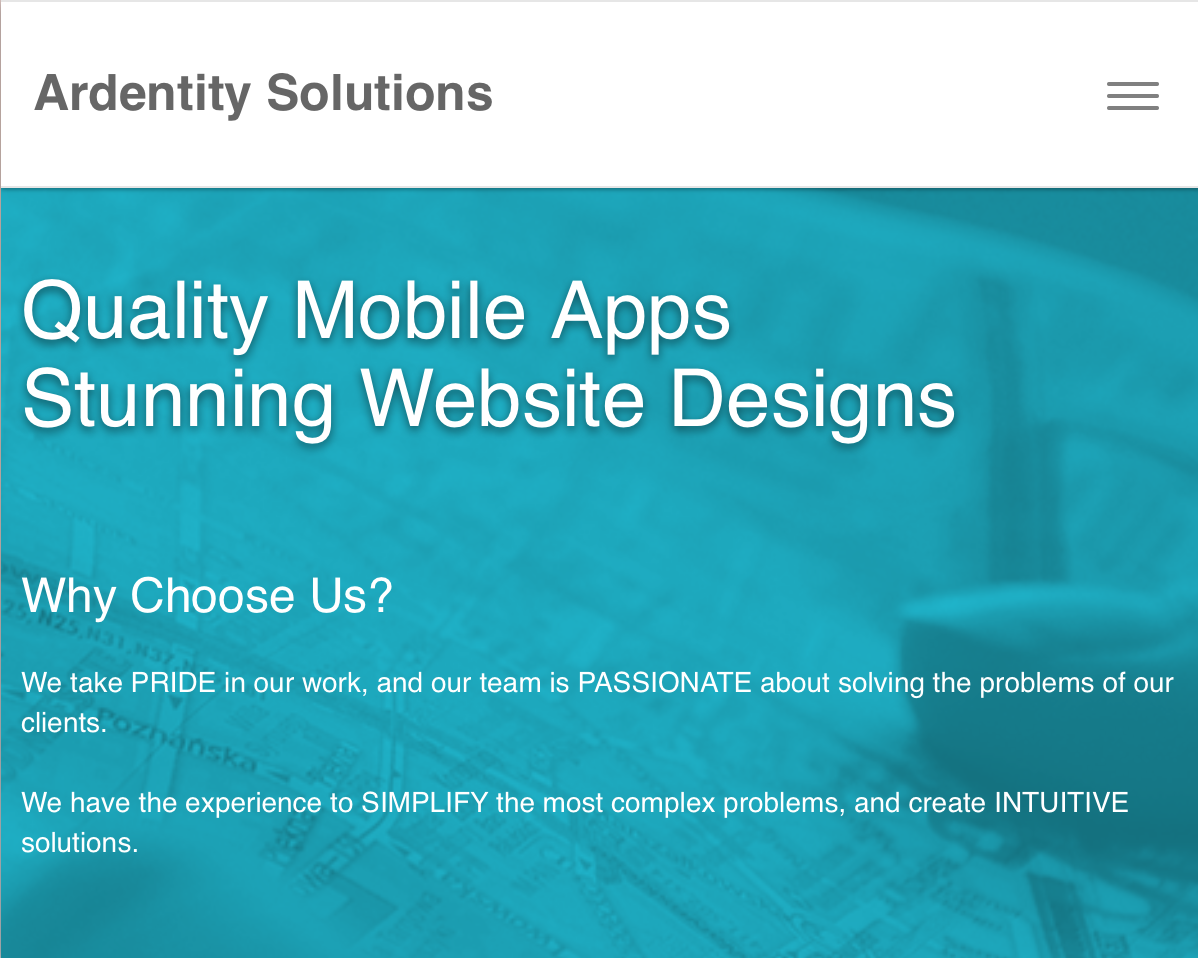
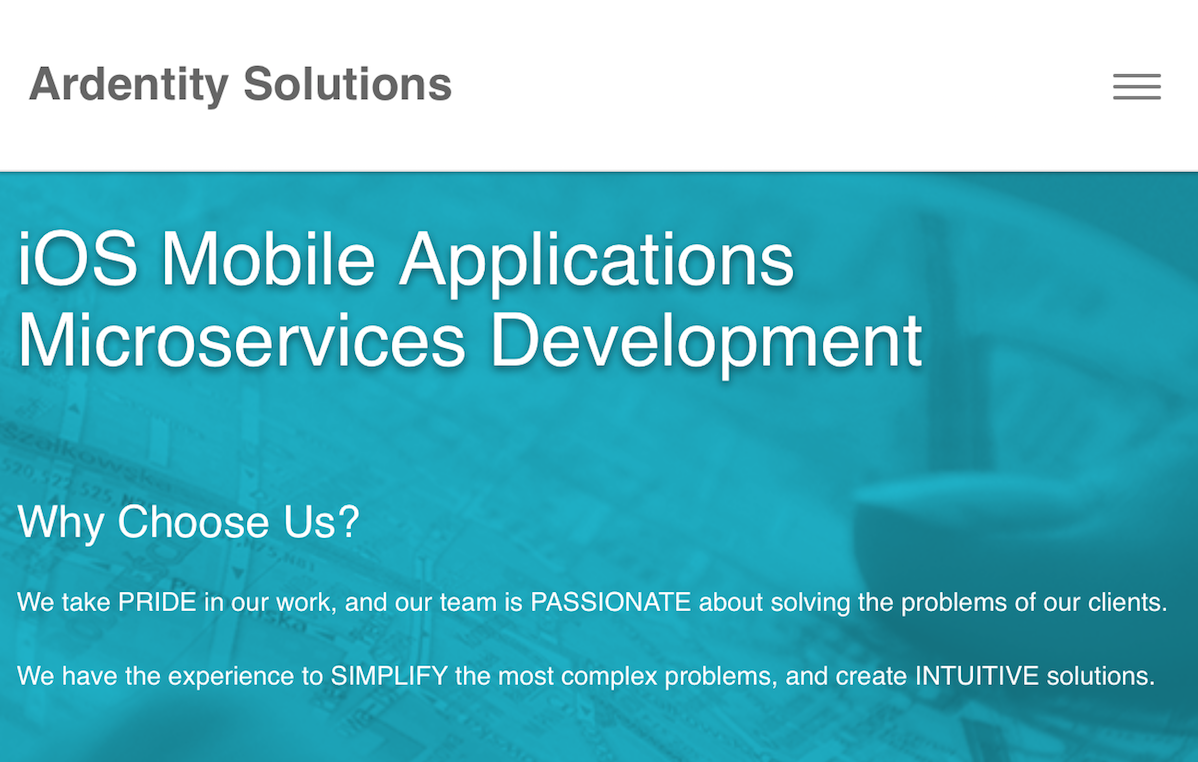
Updated site and social media image

diff --git a/index.html b/index.html
@@ -1,1 +1,1 @@
-<!doctype html><html><head> <meta charset="utf-8"> <meta name="keywords" content="Ardentity, Solution, custom mobile app, website design, microservice, Mobile App, Development, Social Media, Marketing, ios, iPhone, Android"> <meta name="description" content="Help businesses gain a competitive advantage and better serve their customers by using Technology to design, develop and implement creative solutions."> <meta name="viewport" content="width=device-width, initial-scale=1, user-scalable=0"> <link rel="shortcut icon" type="image/png" href="favicon.ico" /> <link rel="stylesheet" type="text/css" href="./css/bootstrap.min.css"><link rel="stylesheet" type="text/css" href="style.css"><link rel="stylesheet" href="./css/animate.min.css" /><link rel='stylesheet' href='./css/font-awesome.min.css'/><link rel='stylesheet' href='./css/et-line.min.css'/><link rel='stylesheet' href='./css/ionicons.min.css'/> <script src="./js/jquery-2.1.0.min.js"></script><script src="./js/bootstrap.min.js"></script><script src="./js/blocs.min.js"></script> <title>Ardentity Solutions - Moving businesses forward!</title><!-- Facebook --><meta property="og:title" content="Ardentity Solutions - Moving businesses forward!"><meta property="og:description" content="Help businesses gain a competitive advantage and better serve their customers by using Technology to design, develop and implement creative solutions."><meta property="fb:app_id" content="1726912514232249"><meta property="og:url" content="https://ardentity.com"><meta property="og:image" content="https://ardentity.com/img/ardentity.png"><meta property="og:image:type" content="image/png"><meta property="og:site_name" content="Ardentity"><meta property="og:type" content="website"><!-- Twitter --><meta name="twitter:card" content="summary_large_image"><meta name="twitter:site" content="@ardentity"><meta name="twitter:creator" content="@ardentity"><meta name="twitter:title" content="Ardentity Solutions - Moving businesses forward!"><meta name="twitter:description" content="Help businesses gain a competitive advantage and better serve their customers by using Technology to design, develop and implement creative solutions."><meta name="twitter:domain" content="https://ardentity.com"><meta name="twitter:image:src" content="https://ardentity.com/img/ardentity.png"></head><body><!-- Main container --><div class="page-container"> <!-- bloc-0 --><div class="bloc sticky-nav bgc-white l-bloc" id="bloc-0"><div class="container bloc-sm b-divider"><nav class="navbar row"><div class="navbar-header"><a class="navbar-brand pull-left" href="https://ardentity.com">Ardentity Solutions</a><button id="nav-toggle" type="button" class="ui-navbar-toggle navbar-toggle" data-toggle="collapse" data-target=".navbar-1"><span class="sr-only">Toggle navigation</span><span class="icon-bar"></span><span class="icon-bar"></span><span class="icon-bar"></span></button></div><div class="navbar-collapse navbar-1 collapse"><ul class="site-navigation nav navbar-nav"><li><a href="mailto:info@ardentity.com" id="pl-undefined">Email: info@ardentity.com</a></li><li><a href="tel:+16786647910" id="pl-undefined">Tel: 678-664-7910</a></li></ul></div></nav></div></div><!-- bloc-0 END --><!-- bloc-1 --><div class="bloc tc-white bg-map-overlay bgc-aqua" id="bloc-1"><div class="container bloc-lg"><div class="row"><div class="col-sm-12"><div class="row"><div class="col-sm-7 col-sm-12"><h1 class="mg-md text-left lg-shadow  tc-white">iOS Mobile Applications<br />And Microservices Development<br /><br /></h1><h3 class="mg-md">Why Choose Us?</h3><p>We take PRIDE in our work, and our team is PASSIONATE about solving the problems of our clients.<br /><br />We have the experience to SIMPLIFY the most complex problems, and create INTUITIVE solutions.</p></div></div></div></div></div></div><!-- bloc-1 END --><!-- bloc-2 --><div class="bloc bgc-white l-bloc" id="bloc-2"><div class="container bloc-lg"><div class="row"><div class="col-sm-12"><h3 class="sm-shadow mg-clear">Our Passion</h3><div class="divider-h"><span class="divider"></span></div><div class="row voffset"><div class="col-sm-12"><p>We specialize in iOS Mobile Applications and Microservices Development.<br /><br />We believe in building user-friendly applications that our clients love.<br /><br />We have mastered the technologies that our clients need to succeed in their businesses.<br /><br />We partner with our clients to create a competitive advantage and increase value for their customers.</p></div></div></div></div></div></div><!-- bloc-2 END --><!-- bloc-3 --><div class="bloc b-parallax bg-citysky-overlay bgc-bright-turquoise d-bloc" id="bloc-3"><div class="container bloc-lg"><div class="row"><div class="col-sm-4"><div class="text-center"><span class="fa fa-heart icon-round icon-md"></span></div><h3 class="text-center mg-md">Beautiful Apps</h3><p class="text-center ">Our user-friendly design will cause your customers to fall in love with your products.</p></div><div class="col-sm-4"><div class="text-center"><span class="et-icon-mobile icon-round icon-md glow-t"></span></div><h3 class="text-center mg-md">Responsive UI</h3><p class="text-center ">We maximize your customer base by designing products that dynamically fits various screen sizes.</p></div><div class="col-sm-4"><div class="text-center"><span class="fa fa-code icon-round icon-md"></span></div><h3 class="text-center mg-md">Clean Designs</h3><p class="text-center ">We purposefully design products that behaves the way your customers think it will.</p></div></div></div></div><!-- bloc-3 END --><!-- bloc-4 --><div class="bloc bgc-white l-bloc" id="bloc-4"><div class="container bloc-lg"><div class="row"><div class="col-sm-12"><h3 class="sm-shadow mg-clear">Projects</h3><div class="divider-h"><span class="divider"></span></div></div></div><div class="row voffset"><div class="col-sm-12"><div class="row"><div class="col-sm-6"><h3 class="mg-md">HealthFit - Trusted Health Information</h3><p class="mg-lg ">All the health information you need to be your best.<br /><br />Browse health content from top sources. Optimized for both iPhone and iPad, so you will have a great reading experience.</p><a href="https://appsto.re/us/0Udh-.i" target="_blank"><img src="img/appstore@2x.png" class="img-responsive" width="170" /></a></div><div class="col-sm-6"><div class="center-block blocsapp-device blocsapp-device-iphone5 iphone-white"><a href="https://appsto.re/us/0Udh-.i" target="_blank"></a><a href="https://appsto.re/us/0Udh-.i" target="_blank"><img src="img/Simulator%20Screen%20Shot%20May%202,%202016,%209.48.05%20PM.png" class="img-responsive" /></a></div></div></div></div></div></div></div><!-- bloc-4 END --><!-- bloc-5 --><div class="bloc bg-city-overlay bgc-cyan-process b-parallax tc-white" id="bloc-5"><div class="container bloc-lg"><div class="row"><div class="col-sm-6"><h3 class="mg-md tc-white">ClearCopy - Clear Sensitive Data From Clipboard</h3><p class="mg-lg ">ClearCopy clears your clipboard from the home screen (3D Touch), in Safari and other applications.</p><a href="https://appsto.re/us/2103-.i" target="_blank"><img src="img/appstore@2x.png" class="img-responsive" width="170" /></a></div><div class="col-sm-6"><div class="center-block blocsapp-device blocsapp-device-iphone5 iphone-white"><a href="https://appsto.re/us/2103-.i" target="_blank"><img src="img/Simulator%20Screen%20Shot%20May%2011,%202016,%209.18.42%20PM.png" class="img-responsive" /></a></div></div></div></div></div><!-- bloc-5 END --><!-- bloc-6 --><div class="bloc bgc-white l-bloc " id="bloc-6"><div class="container bloc-lg"><div class="row"><div class="col-sm-12"><div class="row"><div class="col-sm-6"><h3 class="mg-md">TipNeat - International Tip Calculator</h3><p class="mg-lg ">A Simple And Elegant International Tip Calculator.</p><a href="https://appsto.re/us/d_2t1.i" target="_blank"><img src="img/appstore@2x.png" class="img-responsive" width="170" /></a></div><div class="col-sm-6"><div class="center-block blocsapp-device blocsapp-device-iphone5 iphone-white"><a href="https://appsto.re/us/d_2t1.i" target="_blank"><img src="img/Simulator%20Screen%20Shot%20May%203,%202016,%2012.13.21%20AM.png" class="img-responsive" /></a></div></div></div></div></div></div></div><!-- bloc-6 END --><!-- ScrollToTop Button --><a class="bloc-button btn btn-d scrollToTop" onclick="scrollToTarget('1')"><span class="fa fa-chevron-up"></span></a><!-- ScrollToTop Button END--><!-- Footer - bloc-7 --><div class="bloc bgc-white l-bloc b-divider" id="bloc-7"><div class="container bloc-sm"><div class="row"><div class="col-sm-12 col-md-6 col-md-offset-3"><div class="col-xs-3 text-center"><a class="social" href="https://twitter.com/ardentity" target="_blank"><span class="fa fa-twitter icon-md"></span></a></div><div class="col-xs-3 text-center"><a class="social" href="https://www.facebook.com/Ardentity" target="_blank"><span class="fa fa-facebook icon-md"></span></a></div><div class="col-xs-3 text-center"><a class="social" href="https://www.pinterest.com/ardentity/" target="_blank"><span class="ion ion-social-pinterest icon-md"></span></a></div><div class="col-xs-3 text-center"><a class="social" href="https://www.instagram.com/ardentity/" target="_blank"><span class="fa fa-instagram icon-md"></span></a></div></div></div></div></div><!-- Footer - bloc-7 END --></div><!-- Main container END --> <div class="bloc bgc-white l-bloc b-divider " id="bloc-7"><div class="container bloc-sm"><div class="row"><div class="col-sm-12 col-md-6 col-md-offset-3"><div class="text-center">Copyright © 2016 Ardentity, LLC. All rights reserved.</div></div></div></div></div></body> <!-- Google Analytics --><!-- Google Analytics END --></html>
+<!doctype html><html><head> <meta charset="utf-8"> <meta name="keywords" content="Ardentity, Solution, custom mobile app, website design, microservice, Mobile App, Development, Social Media, Marketing, ios, iPhone, Android"> <meta name="description" content="Help businesses gain a competitive advantage and better serve their customers by using Technology to design, develop and implement creative solutions."> <meta name="viewport" content="width=device-width, initial-scale=1, user-scalable=0"> <link rel="shortcut icon" type="image/png" href="favicon.ico" /> <link rel="stylesheet" type="text/css" href="./css/bootstrap.min.css"><link rel="stylesheet" type="text/css" href="style.css"><link rel="stylesheet" href="./css/animate.min.css" /><link rel='stylesheet' href='./css/font-awesome.min.css'/><link rel='stylesheet' href='./css/et-line.min.css'/><link rel='stylesheet' href='./css/ionicons.min.css'/> <script src="./js/jquery-2.1.0.min.js"></script><script src="./js/bootstrap.min.js"></script><script src="./js/blocs.min.js"></script> <title>Ardentity Solutions - Moving businesses forward!</title><!-- Facebook --><meta property="og:title" content="Ardentity Solutions - Moving businesses forward!"><meta property="og:description" content="Help businesses gain a competitive advantage and better serve their customers by using Technology to design, develop and implement creative solutions."><meta property="fb:app_id" content="1726912514232249"><meta property="og:url" content="https://ardentity.com"><meta property="og:image" content="https://ardentity.com/img/ardentity.png"><meta property="og:image:type" content="image/png"><meta property="og:site_name" content="Ardentity"><meta property="og:type" content="website"><!-- Twitter --><meta name="twitter:card" content="summary_large_image"><meta name="twitter:site" content="@ardentity"><meta name="twitter:creator" content="@ardentity"><meta name="twitter:title" content="Ardentity Solutions - Moving businesses forward!"><meta name="twitter:description" content="Help businesses gain a competitive advantage and better serve their customers by using Technology to design, develop and implement creative solutions."><meta name="twitter:domain" content="https://ardentity.com"><meta name="twitter:image:src" content="https://ardentity.com/img/ardentity.png"></head><body><!-- Main container --><div class="page-container"> <!-- bloc-0 --><div class="bloc sticky-nav bgc-white l-bloc" id="bloc-0"><div class="container bloc-sm b-divider"><nav class="navbar row"><div class="navbar-header"><a class="navbar-brand pull-left" href="https://ardentity.com">Ardentity Solutions</a><button id="nav-toggle" type="button" class="ui-navbar-toggle navbar-toggle" data-toggle="collapse" data-target=".navbar-1"><span class="sr-only">Toggle navigation</span><span class="icon-bar"></span><span class="icon-bar"></span><span class="icon-bar"></span></button></div><div class="navbar-collapse navbar-1 collapse"><ul class="site-navigation nav navbar-nav"><li><a href="mailto:info@ardentity.com" id="pl-undefined">Email: info@ardentity.com</a></li><li><a href="tel:+16786647910" id="pl-undefined">Tel: 678-664-7910</a></li></ul></div></nav></div></div><!-- bloc-0 END --><!-- bloc-1 --><div class="bloc tc-white bg-map-overlay bgc-aqua" id="bloc-1"><div class="container bloc-lg"><div class="row"><div class="col-sm-12"><div class="row"><div class="col-sm-7 col-sm-12"><h1 class="mg-md text-left lg-shadow  tc-white">iOS Mobile Applications<br />Microservices Development<br /><br /></h1><h3 class="mg-md">Why Choose Us?</h3><p>We take PRIDE in our work, and our team is PASSIONATE about solving the problems of our clients.<br /><br />We have the experience to SIMPLIFY the most complex problems, and create INTUITIVE solutions.</p></div></div></div></div></div></div><!-- bloc-1 END --><!-- bloc-2 --><div class="bloc bgc-white l-bloc" id="bloc-2"><div class="container bloc-lg"><div class="row"><div class="col-sm-12"><h3 class="sm-shadow mg-clear">Our Passion</h3><div class="divider-h"><span class="divider"></span></div><div class="row voffset"><div class="col-sm-12"><p>We specialize in iOS Mobile Applications and Microservices Development.<br /><br />We believe in building user-friendly applications that our clients love.<br /><br />We have mastered the technologies that our clients need to succeed in their businesses.<br /><br />We partner with our clients to create a competitive advantage and increase value for their customers.</p></div></div></div></div></div></div><!-- bloc-2 END --><!-- bloc-3 --><div class="bloc b-parallax bg-citysky-overlay bgc-bright-turquoise d-bloc" id="bloc-3"><div class="container bloc-lg"><div class="row"><div class="col-sm-4"><div class="text-center"><span class="fa fa-heart icon-round icon-md"></span></div><h3 class="text-center mg-md">Beautiful Apps</h3><p class="text-center ">Our user-friendly design will cause your customers to fall in love with your products.</p></div><div class="col-sm-4"><div class="text-center"><span class="et-icon-mobile icon-round icon-md glow-t"></span></div><h3 class="text-center mg-md">Responsive UI</h3><p class="text-center ">We maximize your customer base by designing products that dynamically fits various screen sizes.</p></div><div class="col-sm-4"><div class="text-center"><span class="fa fa-code icon-round icon-md"></span></div><h3 class="text-center mg-md">Clean Designs</h3><p class="text-center ">We purposefully design products that behaves the way your customers think it will.</p></div></div></div></div><!-- bloc-3 END --><!-- bloc-4 --><div class="bloc bgc-white l-bloc" id="bloc-4"><div class="container bloc-lg"><div class="row"><div class="col-sm-12"><h3 class="sm-shadow mg-clear">Projects</h3><div class="divider-h"><span class="divider"></span></div></div></div><div class="row voffset"><div class="col-sm-12"><div class="row"><div class="col-sm-6"><h3 class="mg-md">HealthFit - Trusted Health Information</h3><p class="mg-lg ">All the health information you need to be your best.<br /><br />Browse health content from top sources. Optimized for both iPhone and iPad, so you will have a great reading experience.</p><a href="https://appsto.re/us/0Udh-.i" target="_blank"><img src="img/appstore@2x.png" class="img-responsive" width="170" /></a></div><div class="col-sm-6"><div class="center-block blocsapp-device blocsapp-device-iphone5 iphone-white"><a href="https://appsto.re/us/0Udh-.i" target="_blank"></a><a href="https://appsto.re/us/0Udh-.i" target="_blank"><img src="img/Simulator%20Screen%20Shot%20May%202,%202016,%209.48.05%20PM.png" class="img-responsive" /></a></div></div></div></div></div></div></div><!-- bloc-4 END --><!-- bloc-5 --><div class="bloc bg-city-overlay bgc-cyan-process b-parallax tc-white" id="bloc-5"><div class="container bloc-lg"><div class="row"><div class="col-sm-6"><h3 class="mg-md tc-white">ClearCopy - Clear Sensitive Data From Clipboard</h3><p class="mg-lg ">ClearCopy clears your clipboard from the home screen (3D Touch), in Safari and other applications.</p><a href="https://appsto.re/us/2103-.i" target="_blank"><img src="img/appstore@2x.png" class="img-responsive" width="170" /></a></div><div class="col-sm-6"><div class="center-block blocsapp-device blocsapp-device-iphone5 iphone-white"><a href="https://appsto.re/us/2103-.i" target="_blank"><img src="img/Simulator%20Screen%20Shot%20May%2011,%202016,%209.18.42%20PM.png" class="img-responsive" /></a></div></div></div></div></div><!-- bloc-5 END --><!-- bloc-6 --><div class="bloc bgc-white l-bloc " id="bloc-6"><div class="container bloc-lg"><div class="row"><div class="col-sm-12"><div class="row"><div class="col-sm-6"><h3 class="mg-md">TipNeat - International Tip Calculator</h3><p class="mg-lg ">A Simple And Elegant International Tip Calculator.</p><a href="https://appsto.re/us/d_2t1.i" target="_blank"><img src="img/appstore@2x.png" class="img-responsive" width="170" /></a></div><div class="col-sm-6"><div class="center-block blocsapp-device blocsapp-device-iphone5 iphone-white"><a href="https://appsto.re/us/d_2t1.i" target="_blank"><img src="img/Simulator%20Screen%20Shot%20May%203,%202016,%2012.13.21%20AM.png" class="img-responsive" /></a></div></div></div></div></div></div></div><!-- bloc-6 END --><!-- ScrollToTop Button --><a class="bloc-button btn btn-d scrollToTop" onclick="scrollToTarget('1')"><span class="fa fa-chevron-up"></span></a><!-- ScrollToTop Button END--><!-- Footer - bloc-7 --><div class="bloc bgc-white l-bloc b-divider" id="bloc-7"><div class="container bloc-sm"><div class="row"><div class="col-sm-12 col-md-6 col-md-offset-3"><div class="col-xs-3 text-center"><a class="social" href="https://twitter.com/ardentity" target="_blank"><span class="fa fa-twitter icon-md"></span></a></div><div class="col-xs-3 text-center"><a class="social" href="https://www.facebook.com/Ardentity" target="_blank"><span class="fa fa-facebook icon-md"></span></a></div><div class="col-xs-3 text-center"><a class="social" href="https://www.pinterest.com/ardentity/" target="_blank"><span class="ion ion-social-pinterest icon-md"></span></a></div><div class="col-xs-3 text-center"><a class="social" href="https://www.instagram.com/ardentity/" target="_blank"><span class="fa fa-instagram icon-md"></span></a></div></div></div></div></div><!-- Footer - bloc-7 END --></div><!-- Main container END --> <div class="bloc bgc-white l-bloc b-divider " id="bloc-7"><div class="container bloc-sm"><div class="row"><div class="col-sm-12 col-md-6 col-md-offset-3"><div class="text-center">Copyright © 2016 Ardentity, LLC. All rights reserved.</div></div></div></div></div></body> <!-- Google Analytics --><!-- Google Analytics END --></html>
